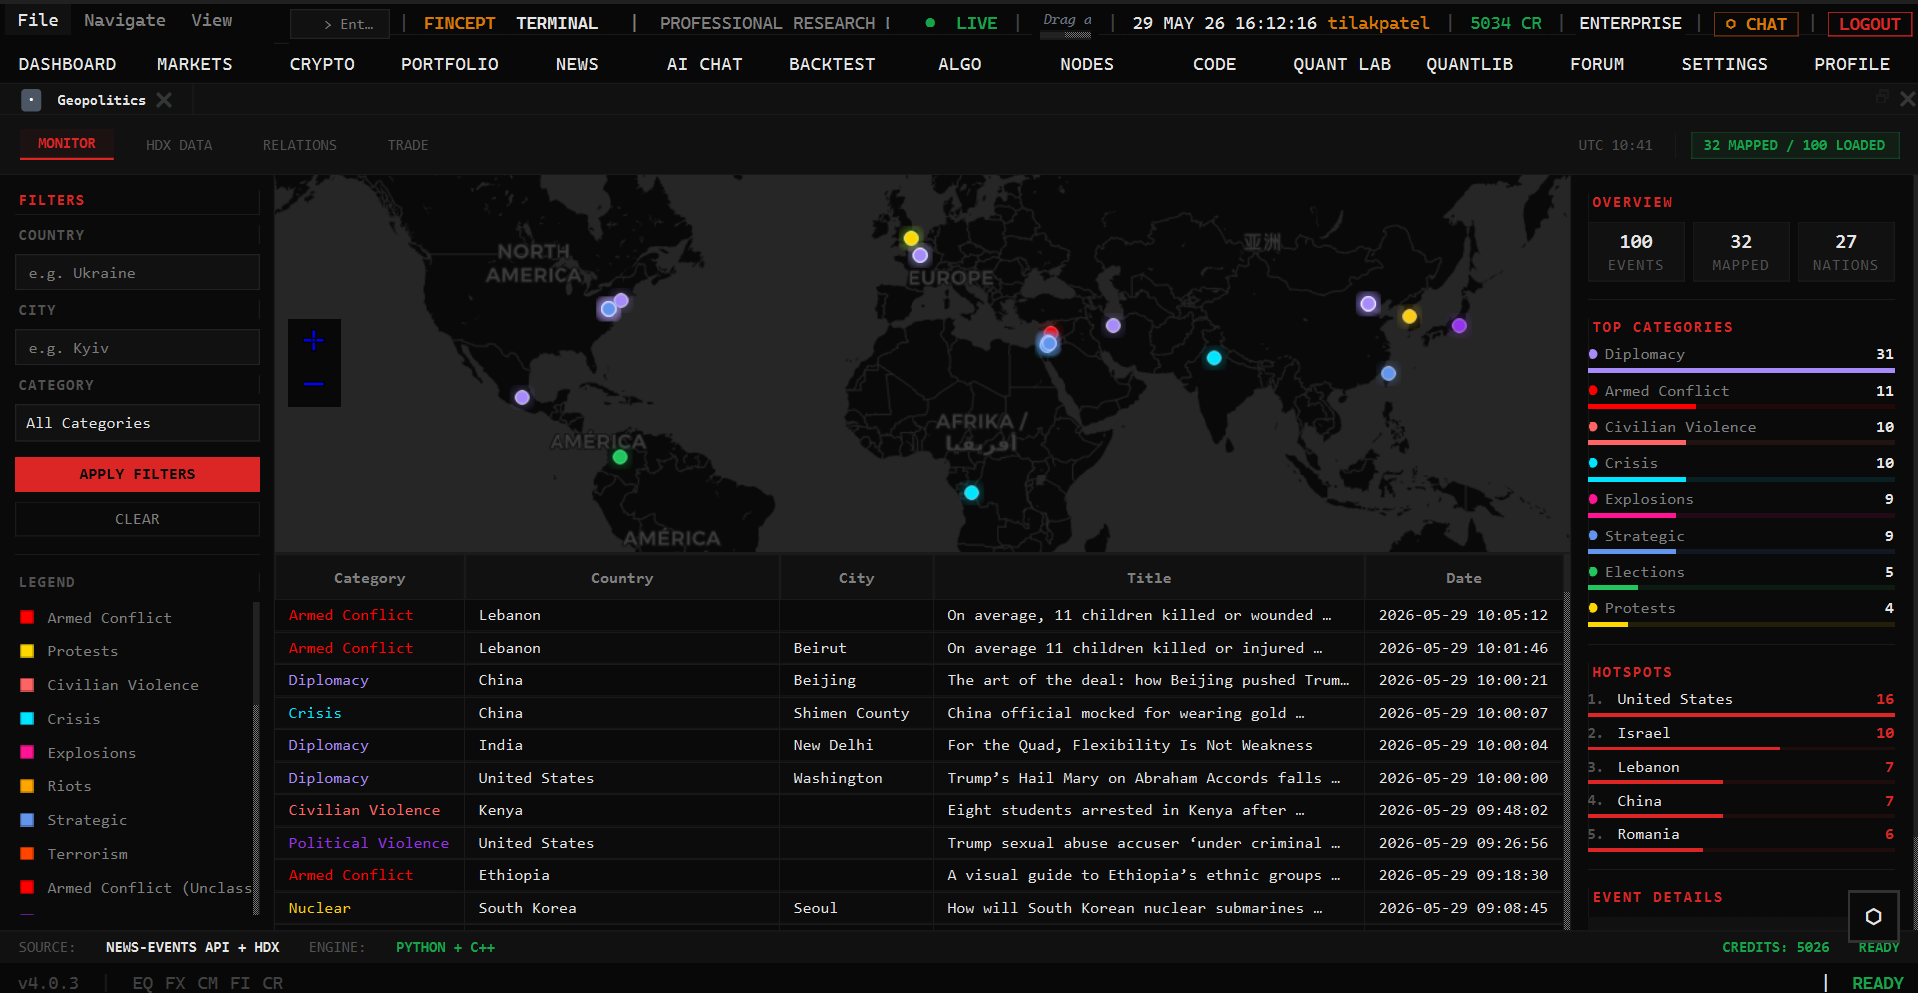
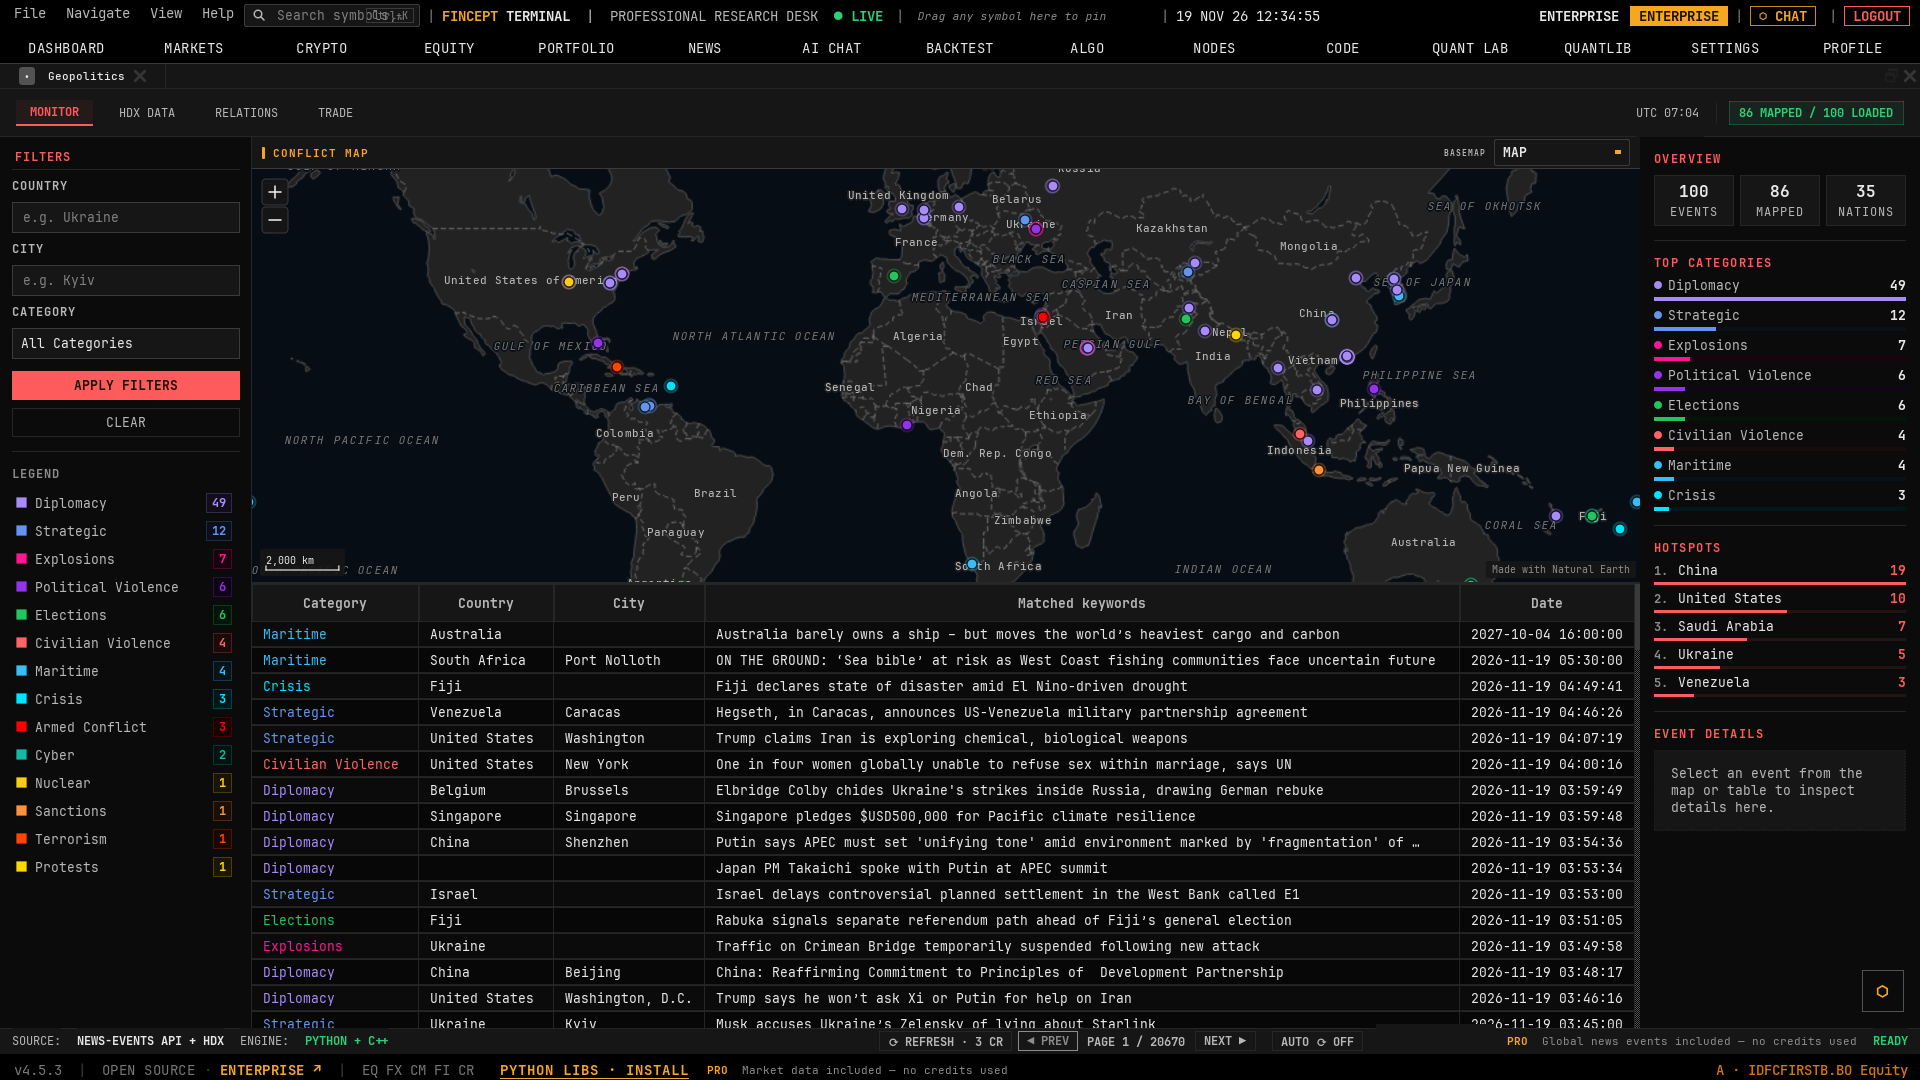
README: new 1920x1080 screenshots of 20 screens; translations show the demo video
Replace the old screenshots with fresh captures of the current terminal,
all 1920x1080: Dashboard, Markets, Equity Research, Equity Trading,
Portfolio, News, AI Chat, Economics, Backtesting, Algo Trading, Node
Editor, Code Editor, AI Quant Lab, QuantLib, Screener, Relationship Map,
Derivatives, Surface Analytics, Geopolitics and M&A Analytics.

Remove the retired FinceptBanner, Maritime and Research images, and point
the translated READMEs at the demo video instead of the deleted banner.

diff --git a/README.md b/README.md
@@ -61,10 +61,34 @@ https://github.com/user-attachments/assets/f8fbabf2-400b-4d66-9e9c-565c8bda5a50
 
 <table>
   <tr>
-    <td align="center" width="25%"><a href="https://raw.githubusercontent.com/Fincept-Corporation/FinceptTerminal/main/images/EquityResearch.png"><img src="https://raw.githubusercontent.com/Fincept-Corporation/FinceptTerminal/main/images/EquityResearch.png" width="100%"/></a><br/><sub><b>Equity Research</b></sub></td>
-    <td align="center" width="25%"><a href="https://raw.githubusercontent.com/Fincept-Corporation/FinceptTerminal/main/images/Portfolio.png"><img src="https://raw.githubusercontent.com/Fincept-Corporation/FinceptTerminal/main/images/Portfolio.png" width="100%"/></a><br/><sub><b>Portfolio</b></sub></td>
-    <td align="center" width="25%"><a href="https://raw.githubusercontent.com/Fincept-Corporation/FinceptTerminal/main/images/News.png"><img src="https://raw.githubusercontent.com/Fincept-Corporation/FinceptTerminal/main/images/News.png" width="100%"/></a><br/><sub><b>News</b></sub></td>
-    <td align="center" width="25%"><a href="https://raw.githubusercontent.com/Fincept-Corporation/FinceptTerminal/main/images/NodeEditor.png"><img src="https://raw.githubusercontent.com/Fincept-Corporation/FinceptTerminal/main/images/NodeEditor.png" width="100%"/></a><br/><sub><b>Node Editor</b></sub></td>
+    <td align="center" width="25%"><a href="https://raw.githubusercontent.com/Fincept-Corporation/FinceptTerminal/main/images/Dashboard.png"><img src="https://raw.githubusercontent.com/Fincept-Corporation/FinceptTerminal/main/images/Dashboard.png" alt="Dashboard" width="100%"/></a><br/><sub><b>Dashboard</b></sub></td>
+    <td align="center" width="25%"><a href="https://raw.githubusercontent.com/Fincept-Corporation/FinceptTerminal/main/images/Markets.png"><img src="https://raw.githubusercontent.com/Fincept-Corporation/FinceptTerminal/main/images/Markets.png" alt="Markets" width="100%"/></a><br/><sub><b>Markets</b></sub></td>
+    <td align="center" width="25%"><a href="https://raw.githubusercontent.com/Fincept-Corporation/FinceptTerminal/main/images/EquityResearch.png"><img src="https://raw.githubusercontent.com/Fincept-Corporation/FinceptTerminal/main/images/EquityResearch.png" alt="Equity Research" width="100%"/></a><br/><sub><b>Equity Research</b></sub></td>
+    <td align="center" width="25%"><a href="https://raw.githubusercontent.com/Fincept-Corporation/FinceptTerminal/main/images/EquityTrading.png"><img src="https://raw.githubusercontent.com/Fincept-Corporation/FinceptTerminal/main/images/EquityTrading.png" alt="Equity Trading" width="100%"/></a><br/><sub><b>Equity Trading</b></sub></td>
+  </tr>
+  <tr>
+    <td align="center" width="25%"><a href="https://raw.githubusercontent.com/Fincept-Corporation/FinceptTerminal/main/images/Portfolio.png"><img src="https://raw.githubusercontent.com/Fincept-Corporation/FinceptTerminal/main/images/Portfolio.png" alt="Portfolio" width="100%"/></a><br/><sub><b>Portfolio</b></sub></td>
+    <td align="center" width="25%"><a href="https://raw.githubusercontent.com/Fincept-Corporation/FinceptTerminal/main/images/News.png"><img src="https://raw.githubusercontent.com/Fincept-Corporation/FinceptTerminal/main/images/News.png" alt="News" width="100%"/></a><br/><sub><b>News</b></sub></td>
+    <td align="center" width="25%"><a href="https://raw.githubusercontent.com/Fincept-Corporation/FinceptTerminal/main/images/AIChat.png"><img src="https://raw.githubusercontent.com/Fincept-Corporation/FinceptTerminal/main/images/AIChat.png" alt="AI Chat" width="100%"/></a><br/><sub><b>AI Chat</b></sub></td>
+    <td align="center" width="25%"><a href="https://raw.githubusercontent.com/Fincept-Corporation/FinceptTerminal/main/images/Economics.png"><img src="https://raw.githubusercontent.com/Fincept-Corporation/FinceptTerminal/main/images/Economics.png" alt="Economics" width="100%"/></a><br/><sub><b>Economics</b></sub></td>
+  </tr>
+  <tr>
+    <td align="center" width="25%"><a href="https://raw.githubusercontent.com/Fincept-Corporation/FinceptTerminal/main/images/Backtesting.png"><img src="https://raw.githubusercontent.com/Fincept-Corporation/FinceptTerminal/main/images/Backtesting.png" alt="Backtesting" width="100%"/></a><br/><sub><b>Backtesting</b></sub></td>
+    <td align="center" width="25%"><a href="https://raw.githubusercontent.com/Fincept-Corporation/FinceptTerminal/main/images/AlgoTrading.png"><img src="https://raw.githubusercontent.com/Fincept-Corporation/FinceptTerminal/main/images/AlgoTrading.png" alt="Algo Trading" width="100%"/></a><br/><sub><b>Algo Trading</b></sub></td>
+    <td align="center" width="25%"><a href="https://raw.githubusercontent.com/Fincept-Corporation/FinceptTerminal/main/images/NodeEditor.png"><img src="https://raw.githubusercontent.com/Fincept-Corporation/FinceptTerminal/main/images/NodeEditor.png" alt="Node Editor" width="100%"/></a><br/><sub><b>Node Editor</b></sub></td>
+    <td align="center" width="25%"><a href="https://raw.githubusercontent.com/Fincept-Corporation/FinceptTerminal/main/images/CodeEditor.png"><img src="https://raw.githubusercontent.com/Fincept-Corporation/FinceptTerminal/main/images/CodeEditor.png" alt="Code Editor" width="100%"/></a><br/><sub><b>Code Editor</b></sub></td>
+  </tr>
+  <tr>
+    <td align="center" width="25%"><a href="https://raw.githubusercontent.com/Fincept-Corporation/FinceptTerminal/main/images/QuantLab.png"><img src="https://raw.githubusercontent.com/Fincept-Corporation/FinceptTerminal/main/images/QuantLab.png" alt="AI Quant Lab" width="100%"/></a><br/><sub><b>AI Quant Lab</b></sub></td>
+    <td align="center" width="25%"><a href="https://raw.githubusercontent.com/Fincept-Corporation/FinceptTerminal/main/images/QuantLib.png"><img src="https://raw.githubusercontent.com/Fincept-Corporation/FinceptTerminal/main/images/QuantLib.png" alt="QuantLib Suite" width="100%"/></a><br/><sub><b>QuantLib Suite</b></sub></td>
+    <td align="center" width="25%"><a href="https://raw.githubusercontent.com/Fincept-Corporation/FinceptTerminal/main/images/Screener.png"><img src="https://raw.githubusercontent.com/Fincept-Corporation/FinceptTerminal/main/images/Screener.png" alt="Equity Screener" width="100%"/></a><br/><sub><b>Equity Screener</b></sub></td>
+    <td align="center" width="25%"><a href="https://raw.githubusercontent.com/Fincept-Corporation/FinceptTerminal/main/images/RelationshipMap.png"><img src="https://raw.githubusercontent.com/Fincept-Corporation/FinceptTerminal/main/images/RelationshipMap.png" alt="Relationship Map" width="100%"/></a><br/><sub><b>Relationship Map</b></sub></td>
+  </tr>
+  <tr>
+    <td align="center" width="25%"><a href="https://raw.githubusercontent.com/Fincept-Corporation/FinceptTerminal/main/images/Derivatives.png"><img src="https://raw.githubusercontent.com/Fincept-Corporation/FinceptTerminal/main/images/Derivatives.png" alt="Derivatives" width="100%"/></a><br/><sub><b>Derivatives</b></sub></td>
+    <td align="center" width="25%"><a href="https://raw.githubusercontent.com/Fincept-Corporation/FinceptTerminal/main/images/SurfaceAnalytics.png"><img src="https://raw.githubusercontent.com/Fincept-Corporation/FinceptTerminal/main/images/SurfaceAnalytics.png" alt="Surface Analytics" width="100%"/></a><br/><sub><b>Surface Analytics</b></sub></td>
+    <td align="center" width="25%"><a href="https://raw.githubusercontent.com/Fincept-Corporation/FinceptTerminal/main/images/Geopolitics.png"><img src="https://raw.githubusercontent.com/Fincept-Corporation/FinceptTerminal/main/images/Geopolitics.png" alt="Geopolitics" width="100%"/></a><br/><sub><b>Geopolitics</b></sub></td>
+    <td align="center" width="25%"><a href="https://raw.githubusercontent.com/Fincept-Corporation/FinceptTerminal/main/images/MAAnalytics.png"><img src="https://raw.githubusercontent.com/Fincept-Corporation/FinceptTerminal/main/images/MAAnalytics.png" alt="M&amp;A Analytics" width="100%"/></a><br/><sub><b>M&amp;A Analytics</b></sub></td>
   </tr>
 </table>
 

diff --git a/docs/translations/README.fr.md b/docs/translations/README.fr.md
@@ -28,7 +28,7 @@ Plateforme d'intelligence financière de pointe : analyse de niveau institutionn
 
 [📥 Télécharger](https://github.com/Fincept-Corporation/FinceptTerminal/releases) · [🏢 Enterprise](https://fincept.in/enterprise) · [💳 Tarifs](https://fincept.in/pricing) · [📖 Manuel](https://fincept.in/manual) · [💬 Discord](https://discord.gg/ae87a8ygbN)
 
-![Fincept Terminal](https://raw.githubusercontent.com/Fincept-Corporation/FinceptTerminal/main/images/FinceptBanner.png)
+https://github.com/user-attachments/assets/f8fbabf2-400b-4d66-9e9c-565c8bda5a50
 
 </div>
 

diff --git a/docs/translations/README.de.md b/docs/translations/README.de.md
@@ -28,7 +28,7 @@ Hochmoderne Financial-Intelligence-Plattform mit Finanzanalysen auf institutione
 
 [📥 Download](https://github.com/Fincept-Corporation/FinceptTerminal/releases) · [🏢 Enterprise](https://fincept.in/enterprise) · [💳 Preise](https://fincept.in/pricing) · [📖 Handbuch](https://fincept.in/manual) · [💬 Discord](https://discord.gg/ae87a8ygbN)
 
-![Fincept Terminal](https://raw.githubusercontent.com/Fincept-Corporation/FinceptTerminal/main/images/FinceptBanner.png)
+https://github.com/user-attachments/assets/f8fbabf2-400b-4d66-9e9c-565c8bda5a50
 
 </div>
 

diff --git a/docs/translations/README.es.md b/docs/translations/README.es.md
@@ -28,7 +28,7 @@ Plataforma de inteligencia financiera de última generación, con analítica de 
 
 [📥 Descargar](https://github.com/Fincept-Corporation/FinceptTerminal/releases) · [🏢 Enterprise](https://fincept.in/enterprise) · [💳 Precios](https://fincept.in/pricing) · [📖 Manual](https://fincept.in/manual) · [💬 Discord](https://discord.gg/ae87a8ygbN)
 
-![Fincept Terminal](https://raw.githubusercontent.com/Fincept-Corporation/FinceptTerminal/main/images/FinceptBanner.png)
+https://github.com/user-attachments/assets/f8fbabf2-400b-4d66-9e9c-565c8bda5a50
 
 </div>
 

diff --git a/docs/translations/README.hi.md b/docs/translations/README.hi.md
@@ -28,7 +28,7 @@
 
 [📥 डाउनलोड](https://github.com/Fincept-Corporation/FinceptTerminal/releases) · [🏢 Enterprise](https://fincept.in/enterprise) · [💳 मूल्य](https://fincept.in/pricing) · [📖 मैनुअल](https://fincept.in/manual) · [💬 Discord](https://discord.gg/ae87a8ygbN)
 
-![Fincept Terminal](https://raw.githubusercontent.com/Fincept-Corporation/FinceptTerminal/main/images/FinceptBanner.png)
+https://github.com/user-attachments/assets/f8fbabf2-400b-4d66-9e9c-565c8bda5a50
 
 </div>
 

diff --git a/docs/translations/README.ja.md b/docs/translations/README.ja.md
@@ -28,7 +28,7 @@
 
 [📥 ダウンロード](https://github.com/Fincept-Corporation/FinceptTerminal/releases) · [🏢 Enterprise](https://fincept.in/enterprise) · [💳 料金](https://fincept.in/pricing) · [📖 マニュアル](https://fincept.in/manual) · [💬 Discord](https://discord.gg/ae87a8ygbN)
 
-![Fincept Terminal](https://raw.githubusercontent.com/Fincept-Corporation/FinceptTerminal/main/images/FinceptBanner.png)
+https://github.com/user-attachments/assets/f8fbabf2-400b-4d66-9e9c-565c8bda5a50
 
 </div>
 

diff --git a/docs/translations/README.ko.md b/docs/translations/README.ko.md
@@ -28,7 +28,7 @@
 
 [📥 다운로드](https://github.com/Fincept-Corporation/FinceptTerminal/releases) · [🏢 Enterprise](https://fincept.in/enterprise) · [💳 요금제](https://fincept.in/pricing) · [📖 매뉴얼](https://fincept.in/manual) · [💬 Discord](https://discord.gg/ae87a8ygbN)
 
-![Fincept Terminal](https://raw.githubusercontent.com/Fincept-Corporation/FinceptTerminal/main/images/FinceptBanner.png)
+https://github.com/user-attachments/assets/f8fbabf2-400b-4d66-9e9c-565c8bda5a50
 
 </div>
 

diff --git a/docs/translations/README.zh-CN.md b/docs/translations/README.zh-CN.md
@@ -28,7 +28,7 @@
 
 [📥 下载](https://github.com/Fincept-Corporation/FinceptTerminal/releases) · [🏢 Enterprise](https://fincept.in/enterprise) · [💳 价格](https://fincept.in/pricing) · [📖 手册](https://fincept.in/manual) · [💬 Discord](https://discord.gg/ae87a8ygbN)
 
-![Fincept Terminal](https://raw.githubusercontent.com/Fincept-Corporation/FinceptTerminal/main/images/FinceptBanner.png)
+https://github.com/user-attachments/assets/f8fbabf2-400b-4d66-9e9c-565c8bda5a50
 
 </div>
 

diff --git a/docs/translations/README.zh-TW.md b/docs/translations/README.zh-TW.md
@@ -28,7 +28,7 @@
 
 [📥 下載](https://github.com/Fincept-Corporation/FinceptTerminal/releases) · [🏢 Enterprise](https://fincept.in/enterprise) · [💳 價格](https://fincept.in/pricing) · [📖 手冊](https://fincept.in/manual) · [💬 Discord](https://discord.gg/ae87a8ygbN)
 
-![Fincept Terminal](https://raw.githubusercontent.com/Fincept-Corporation/FinceptTerminal/main/images/FinceptBanner.png)
+https://github.com/user-attachments/assets/f8fbabf2-400b-4d66-9e9c-565c8bda5a50
 
 </div>
 
